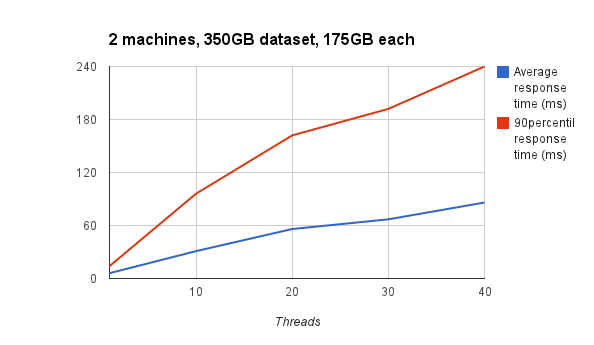
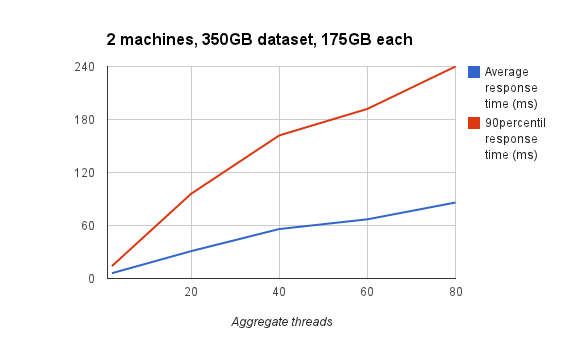
Updating the benchmark page.

diff --git a/performance.html b/performance.html
@@ -45,7 +45,7 @@ while (!benchmark_ends) {
 </pre>
 
 <p>
-For a 2-machine cluster, each of them holding approximately 175GB, we obtained a throughput of <strong>868 queries / second</strong>, returning an average of 15 rows of result each - <i>rows of about 50 bytes, so around 750 bytes / query in average</i>. The average response times for 40 simultaneous threads were around <strong>80 milliseconds</strong>. 
+For a 2-machine cluster, each of them holding approximately 175GB, we obtained a throughput of <strong>868 queries / second</strong>, returning an average of 15 rows of result each - <i>rows of about 50 bytes, so around 750 bytes / query in average</i>. The average response times for 80 simultaneous threads were around <strong>80 milliseconds</strong>. 
 </p>
    
 <div class="row">
@@ -54,7 +54,7 @@ For a 2-machine cluster, each of them holding approximately 175GB, we obtained a
 </div>
 
 <p>
-When we doubled the cluster to a 4-machine cluster, each of them holding approximately 87GB, the <strong>throughput increased by a factor of 4</strong>, delivering a peak of <strong>3156 operations per second</strong>. Response times for 40 threads were around <strong>46 milliseconds</strong>.
+When we doubled the cluster to a 4-machine cluster, each of them holding approximately 87GB, the <strong>throughput increased by a factor of 4</strong>, delivering a peak of <strong>3156 operations per second</strong>. Response times for 160 threads were around <strong>46 milliseconds</strong>.
 Because the amount of data each node holds is divided by two, a bigger portion of the dataset can be cached in RAM and therefore average response times are almost divided by 2. But because we also added two more machines, the throughput scaled to 4. 
 </p>
 
@@ -84,7 +84,7 @@ since it must create B-Trees for each partition).
 <h4>Deploy time</h4>
 
 <p>
-After data generation, deployment was performed by the benchmark machines, which resided into the same rack and were connected trough the same network interface. Each machine could download from HDFS at <strong>82 MB/sec</strong> which made the deploy last for <strong>36 minutes</strong> in the case of the 2-machine cluster and <strong>18 minutes</strong> for the 4-machine cluster. 
+After data generation, deployment was performed by the benchmark machines, which resided into the same rack and were connected through the same network switch. Each machine could download from HDFS at <strong>82 MB/sec</strong> which made the deploy last for <strong>36 minutes</strong> in the case of the 2-machine cluster and <strong>18 minutes</strong> for the 4-machine cluster. 
 </p>
 
 <h4>Considerations</h4>
@@ -100,7 +100,7 @@ If you want to know more details about this benchmark you can see <a href='https
 We designed a benchmark for testing Splout's efficiency as a key / value store. 
 The idea that Splout is an extension to a key / value must be validated by assuring an expected level of performance as a key / value store.
 We loaded 470GB key-value pairs worth of data, with 1024 byte values, into a 4-machine cluster with the same characteristics than above.
-We achieved a peak throughput of <strong>2180 queries / second</strong> with average response times of <strong>69 ms for 40 threads</strong>. 
+We achieved a peak throughput of <strong>2180 queries / second</strong> with average response times of <strong>69 ms for 160 threads</strong>. 
 </p>
 
 <div class="row">
